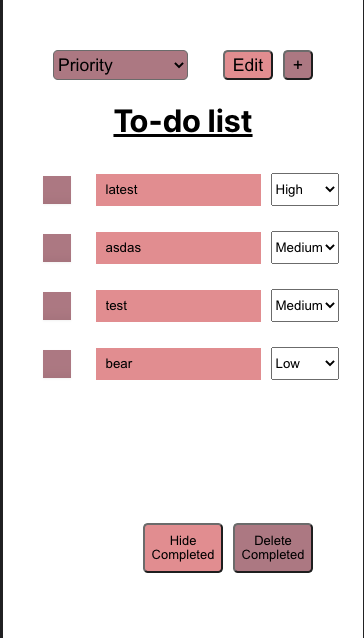
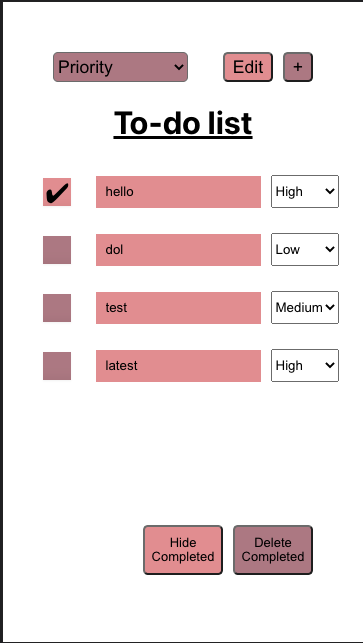
fix design doc

diff --git a/docs/design.md b/docs/design.md
@@ -50,6 +50,14 @@ Note: previous functionality such as editing, deleting, adding todos are in `des
 
 ![new_task_high](images/five.png)
 
+6. No todos are selected
+
+![none_selected](images/six.png)
+
+7. Some todos are selected
+
+![some_selected](images/seven.png)
+
 ## Reflection
 ### Challenges
 
